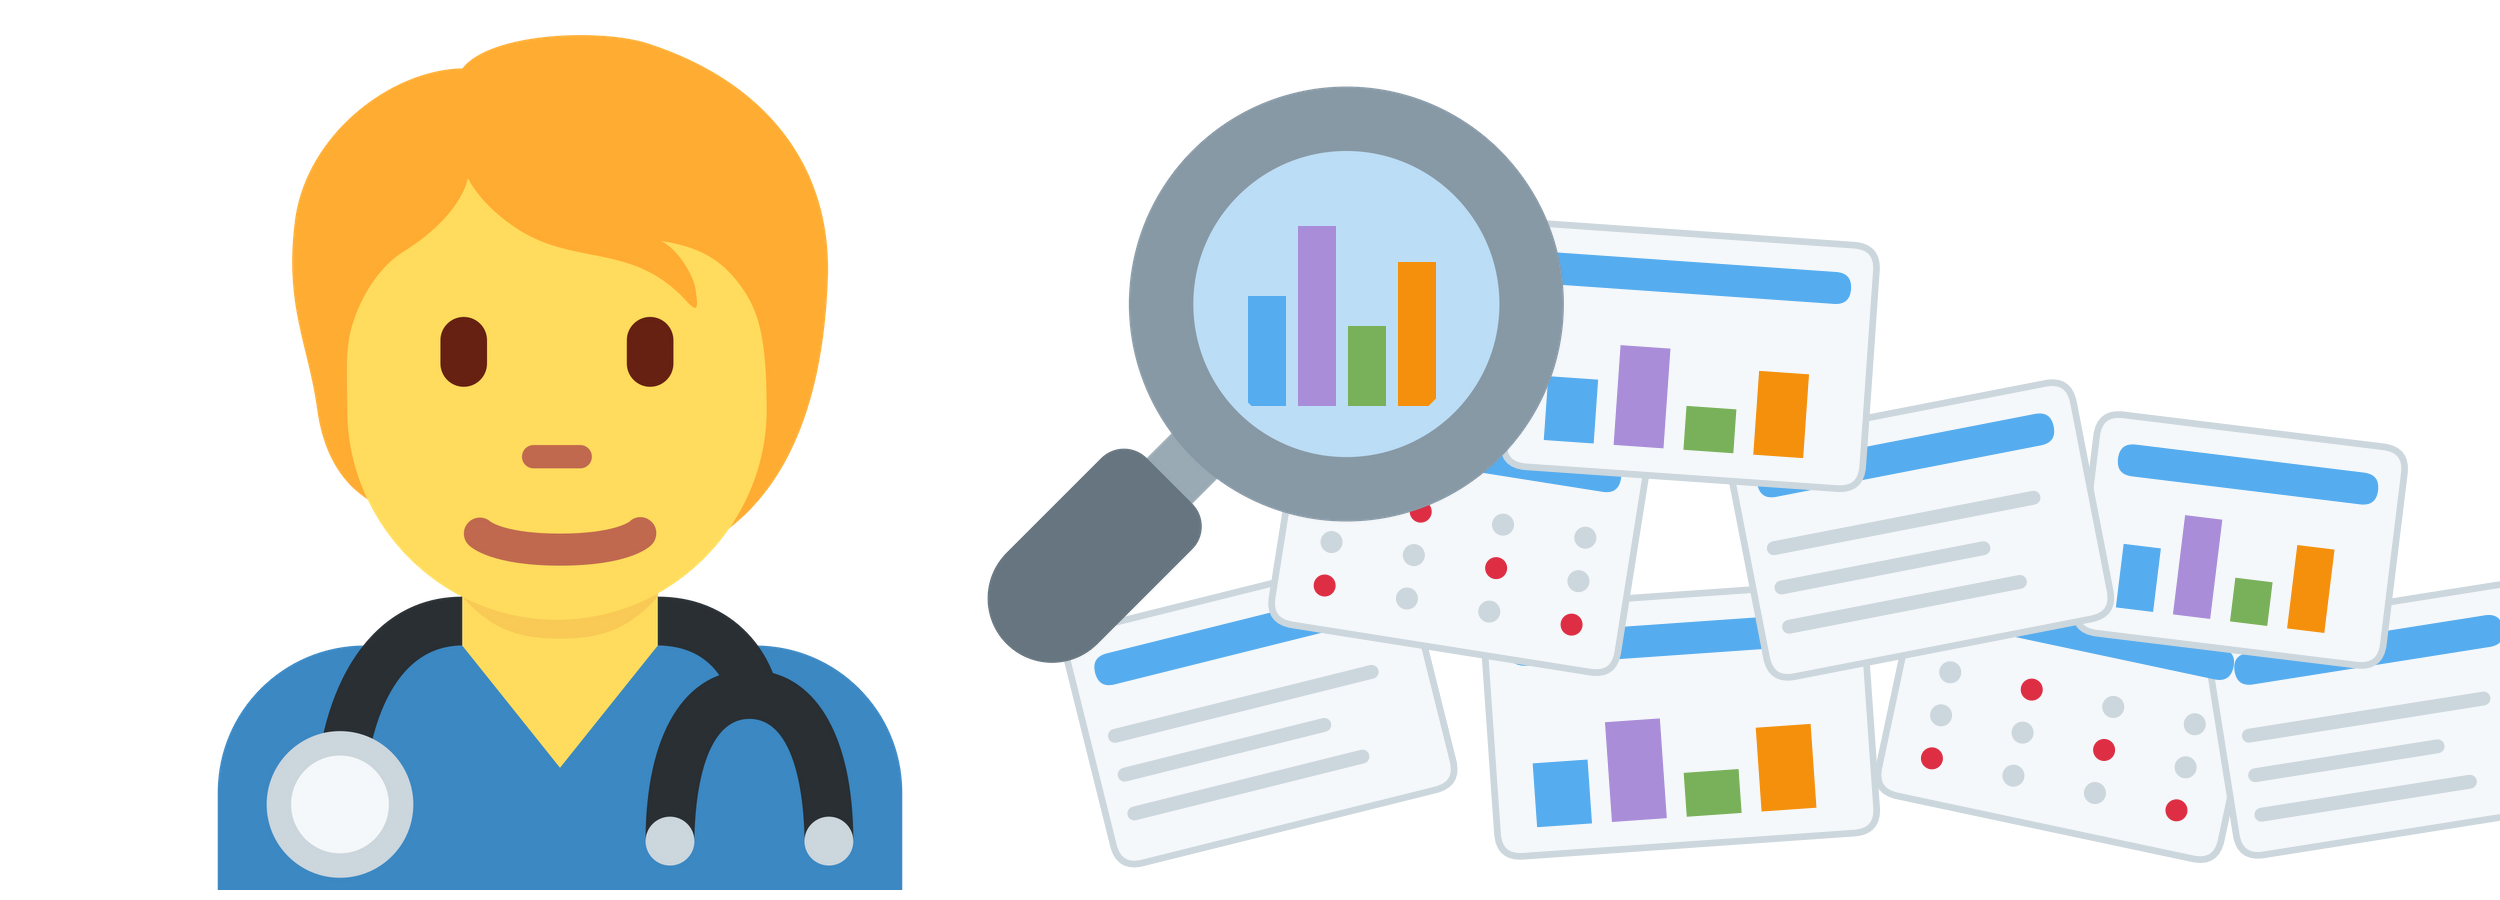
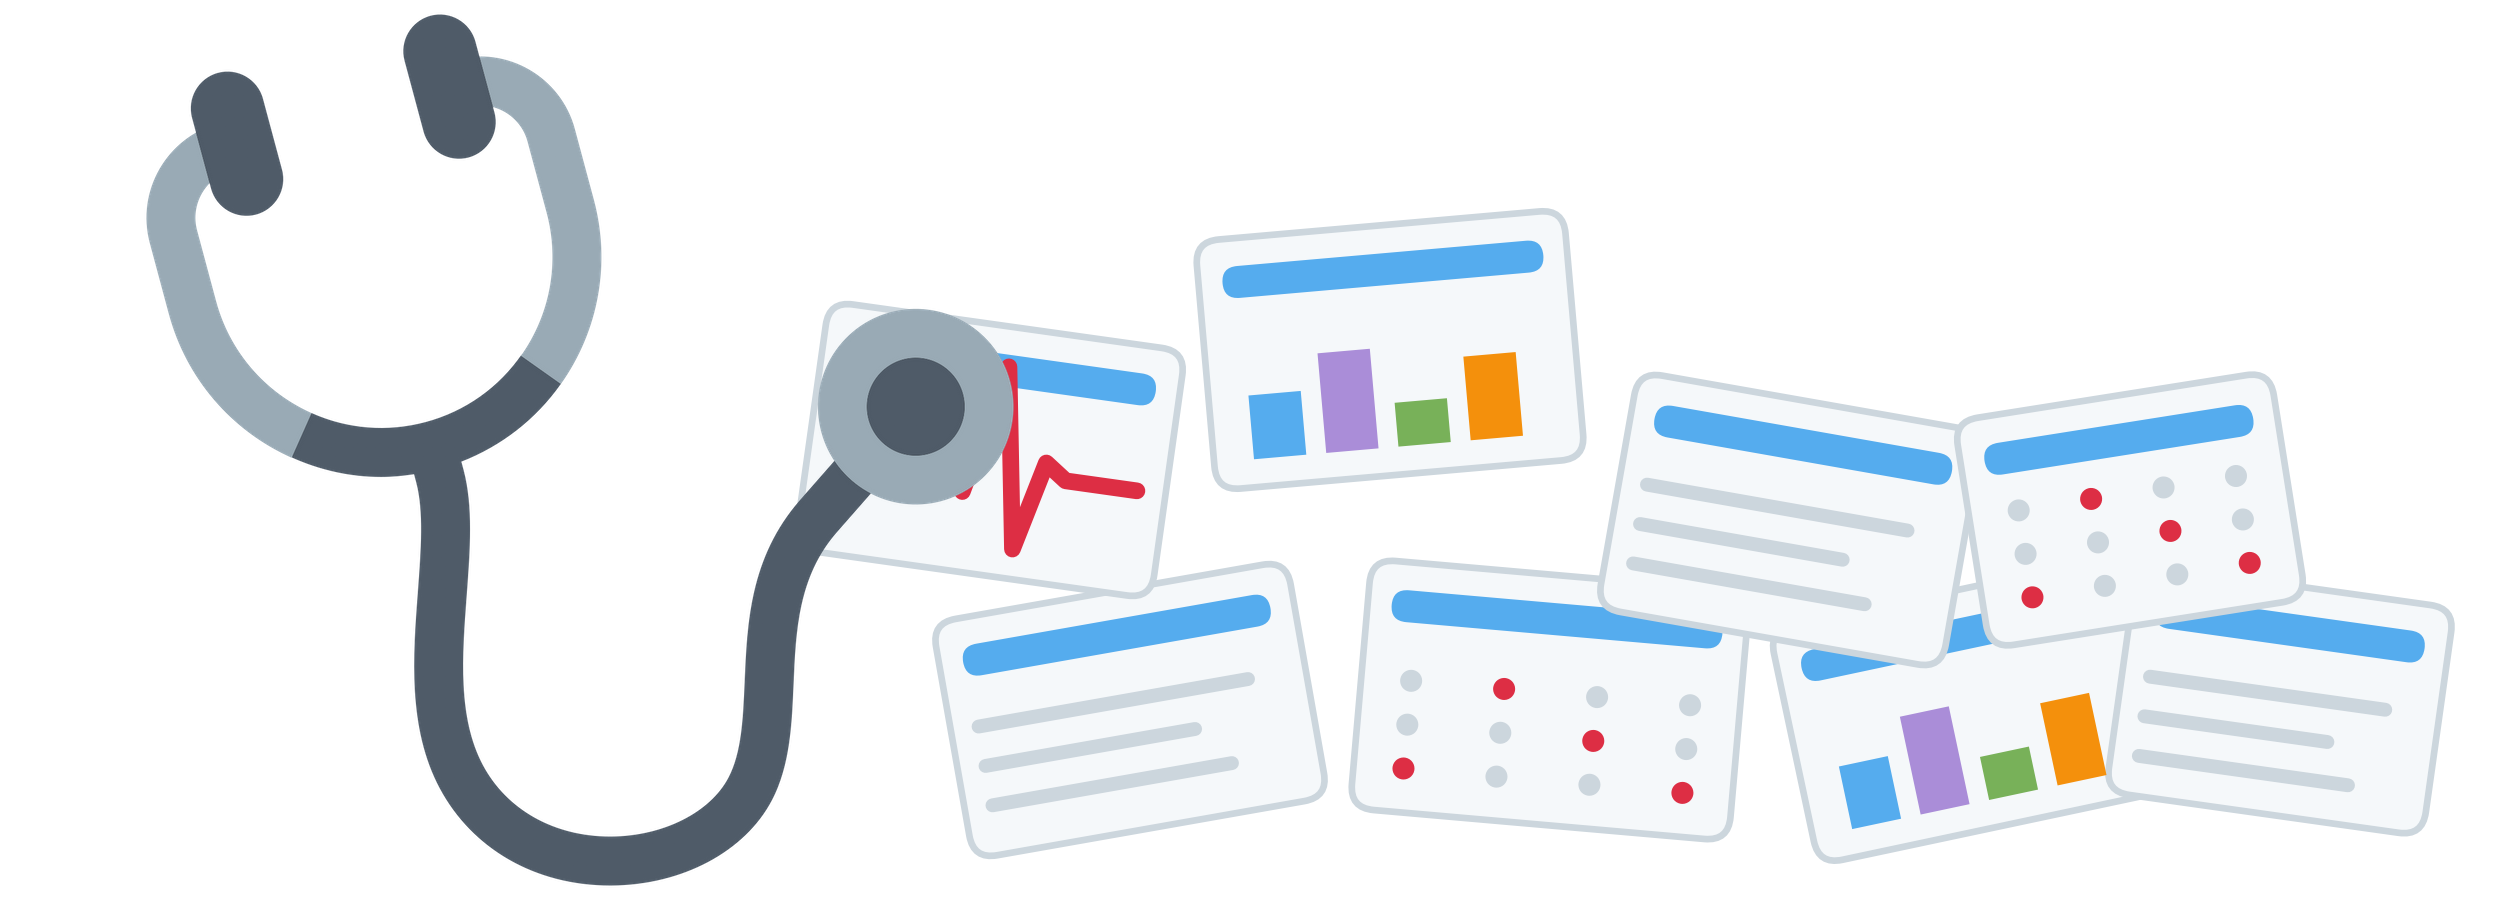
Dr. Post-Training: use the Twemoji stethoscope on the data pile as the cover
Replace the health-worker composition with the stethoscope from the paper's title
icon, mirrored so its chest piece rests on a data card carrying a small ECG trace.
The tubing is lightened from Twemoji's near-black so it stays visible on the dark
card; the CC-BY credit in the entry names the graphic and the change. The doctor
composition remains available as the script's secondary "doctor" target.

diff --git a/public/research/Dr-Post-Training/Figures/preview.py b/public/research/Dr-Post-Training/Figures/preview.py
@@ -1,10 +1,12 @@
 #!/usr/bin/env python3
 """Cover image for the Dr. Post-Training research entry -> ../preview.png
 
-Composition: the Twemoji health worker beside a pile of data cards drawn in Twemoji's
-palette, with the Twemoji magnifying glass hovering over the pile and a zoomed bar chart
-in its lens. The two emoji are Twemoji graphics (CC-BY 4.0, see twemoji/LICENSE.txt);
-the cards and the lens contents are drawn here.
+Composition: the Twemoji stethoscope (the icon in the paper's title), mirrored so its
+chest piece rests on a pile of data cards drawn in Twemoji's palette; the card under the
+chest piece carries a small ECG trace. The stethoscope is a Twemoji graphic (CC-BY 4.0,
+see twemoji/LICENSE.txt), with its near-black tubing lightened a little so it stays
+visible on the dark card surface; the cards are drawn here. A "doctor" variant (Twemoji
+health worker + magnifying glass) is kept as a secondary target.
 Sized to fill the research card's 25:9 cover box on a transparent background.
 
 Self-contained; needs Inkscape on PATH to rasterize the SVGs
@@ -15,6 +17,9 @@ Self-contained; needs Inkscape on PATH to rasterize the SVGs
     /tmp/pbb-viz/bin/python public/research/Dr-Post-Training/Figures/preview.py --check
         # --check also writes a review sheet (light card / dark card / card-size box)
         # to /tmp/preview-check/
+    /tmp/pbb-viz/bin/python public/research/Dr-Post-Training/Figures/preview.py doctor
+        # the earlier variant with the Twemoji health worker and magnifying glass; written
+        # to /tmp/preview-check/variants/ for comparison, not into the repo
 """
 
 from __future__ import annotations
@@ -154,6 +159,12 @@ def data_card(ax, cx, cy, w, h, angle, kind, zorder):
             bx = x0 + 0.2 + i * ((w - 0.4) / 4)
             ax.add_patch(Rectangle((bx, y0 + 0.14), (w - 0.4) / 4 - 0.1, hb, facecolor=c,
                                    edgecolor="none", transform=tr, zorder=zorder + 1))
+    elif kind == "pulse":
+        y = y0 + h * 0.42
+        pts = np.array([(0.08, 0), (0.3, 0), (0.37, 0.14), (0.44, -0.1), (0.52, 0.42), (0.6, -0.3),
+                        (0.66, 0.06), (0.72, 0), (0.92, 0)])
+        ax.plot(x0 + pts[:, 0] * w, y + pts[:, 1] * h, color=BAR_RED, lw=6, solid_joinstyle="round",
+                solid_capstyle="round", transform=tr, zorder=zorder + 1)
     elif kind == "dots":
         for i in range(3):
             for j in range(4):
@@ -162,7 +173,7 @@ def data_card(ax, cx, cy, w, h, angle, kind, zorder):
                                     facecolor=c, edgecolor="none", transform=tr, zorder=zorder + 1))
 
 
-def cover(check: bool):
+def cover(check: bool, out: Path):
     fig, ax = new_canvas()
 
     # --- the pile of data ----------------------------------------------------------
@@ -206,8 +217,47 @@ def cover(check: bool):
         ax.add_patch(bar)
         x += 0.25
 
-    save(fig, OUT, check)
+    save(fig, out, check)
+
+
+def cover_stethoscope(check: bool, out: Path):
+    """Variant without the doctor: the Twemoji stethoscope (the icon in the paper's title),
+    mirrored so its chest piece rests on the pile of data."""
+    fig, ax = new_canvas()
+    cards = [
+        # (cx, cy, w, h, angle, kind, zorder)
+        (5.65, 0.95, 1.8, 1.2, 10, "lines", 3),
+        (7.75, 1.0, 1.9, 1.25, -5, "dots", 4),
+        (9.85, 0.95, 1.8, 1.2, 12, "bars", 3),
+        (11.4, 1.0, 1.6, 1.15, -8, "lines", 3),
+        (4.95, 2.25, 1.8, 1.25, -8, "pulse", 6),
+        (6.95, 2.75, 1.85, 1.25, 5, "bars", 6),
+        (8.95, 1.9, 1.75, 1.2, -10, "lines", 5),
+        (10.65, 1.95, 1.6, 1.15, 9, "dots", 5),
+    ]
+    for c in cards:
+        data_card(ax, *c)
+    # Twemoji 1fa7a has its chest piece at the left; mirror it so the chest piece lands on the
+    # top-left card of the pile and the headset opens to the upper left
+    steth = rasterize(TWEMOJI / "1fa7a.svg", 1400)[:, ::-1, :].copy()
+    # Twemoji's tubing is #31373D, which nearly vanishes on the dark card; shift those pixels
+    # (and their anti-aliased edges, by how close they are to that colour) to a mid slate
+    dark = np.array([0x31, 0x37, 0x3D]) / 255
+    target = np.array([0x4F, 0x5B, 0x68]) / 255
+    rgb = steth[..., :3]
+    closeness = np.clip(1 - np.linalg.norm(rgb - dark, axis=-1) / 0.25, 0, 1)[..., None]
+    steth[..., :3] = rgb * (1 - closeness) + target * closeness
+    place(ax, steth, 0.7, 0.05, 4.4, zorder=10)
+    save(fig, out, check)
 
 
 if __name__ == "__main__":
-    cover(check="--check" in sys.argv[1:])
+    args = sys.argv[1:]
+    check = "--check" in args
+    for name in [a for a in args if not a.startswith("--")] or ["stethoscope"]:
+        if name == "stethoscope":
+            cover_stethoscope(check, OUT)
+        elif name == "doctor":
+            cover(check, Path("/tmp/preview-check/variants/Dr-Post-Training-doctor.png"))
+        else:
+            sys.exit(f"unknown target {name!r}; use stethoscope or doctor")
